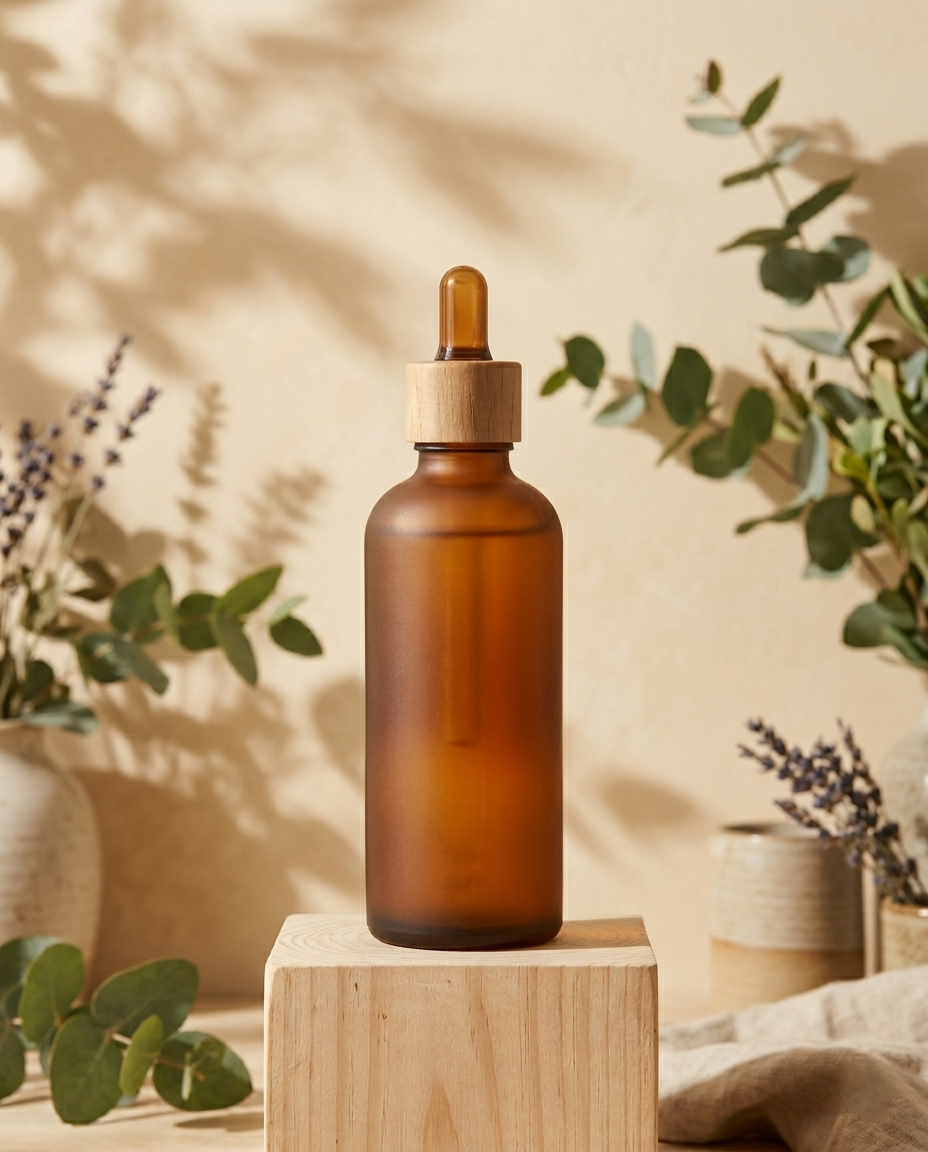
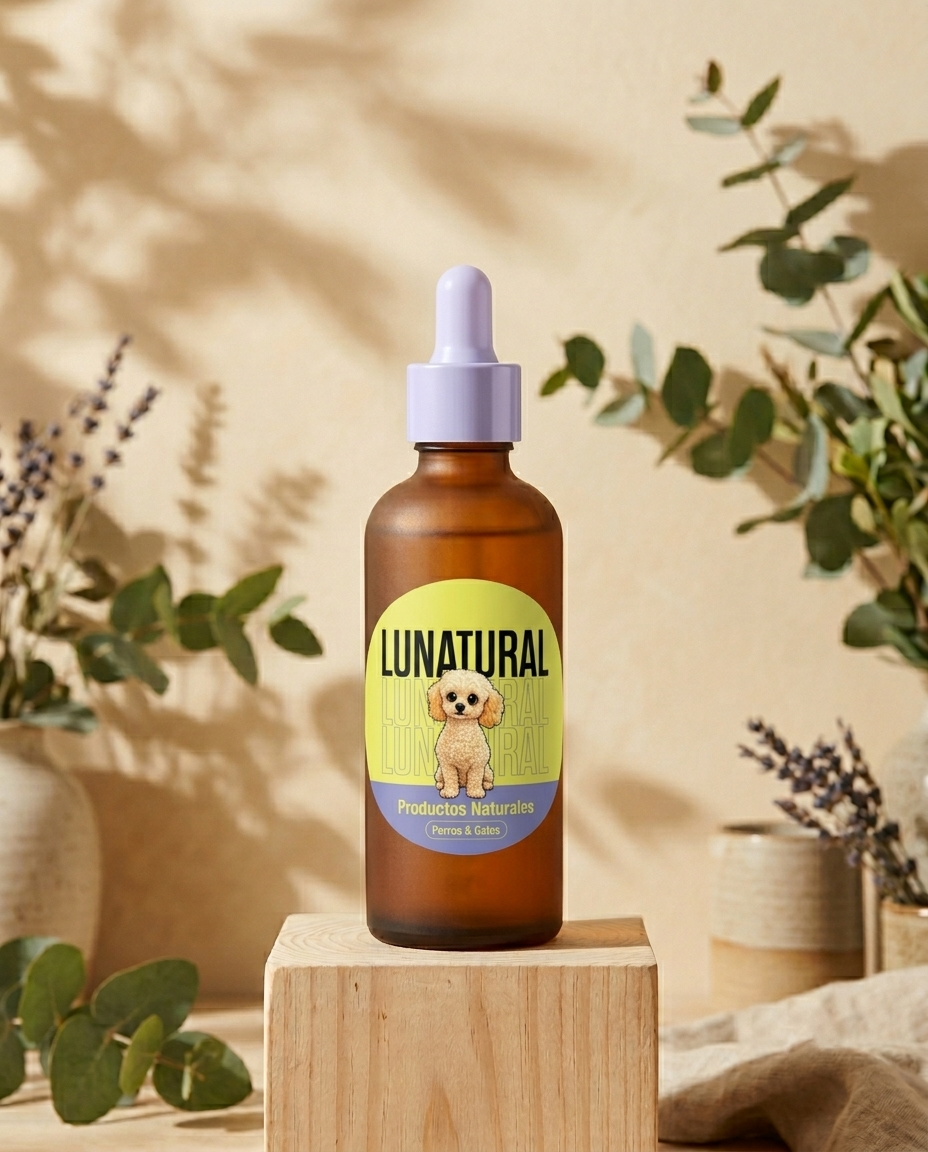
Add hamburger mobile menu and update Lunatural product images/descriptions

diff --git a/src/pages/PresetD.jsx b/src/pages/PresetD.jsx
@@ -1,4 +1,4 @@
-import React, { useEffect, useRef, useState } from 'react';
+import React, { useCallback, useEffect, useRef, useState } from 'react';
 import gsap from 'gsap';
 import { ScrollTrigger } from 'gsap/ScrollTrigger';
 import { motion } from 'framer-motion';
@@ -23,11 +23,27 @@ const smoothScroll = (e) => {
 // ── NAVBAR ────────────────────────────────────────────────────────────────────
 export function Navbar() {
   const [scrolled, setScrolled] = useState(false);
+  const [mobileOpen, setMobileOpen] = useState(false);
+  const [menuClosing, setMenuClosing] = useState(false);
+
+  const closeMenu = useCallback(() => {
+    setMenuClosing(true);
+    setTimeout(() => {
+      setMobileOpen(false);
+      setMenuClosing(false);
+    }, 300);
+  }, []);
+
   useEffect(() => {
     const h = () => setScrolled(window.scrollY > 80);
     window.addEventListener('scroll', h);
     return () => window.removeEventListener('scroll', h);
   }, []);
+
+  useEffect(() => {
+    document.body.style.overflow = mobileOpen ? 'hidden' : '';
+    return () => { document.body.style.overflow = ''; };
+  }, [mobileOpen]);
 
   const links = [
     { label: 'Inicio', href: '#inicio' },
@@ -36,29 +52,88 @@ export function Navbar() {
     { label: 'Lunatural', href: '#lunatural' },
   ];
 
+  const handleLinkClick = (e) => {
+    smoothScroll(e);
+    closeMenu();
+  };
+
+  const toggleMenu = useCallback(() => {
+    if (mobileOpen) {
+      closeMenu();
+    } else {
+      setMobileOpen(true);
+    }
+  }, [mobileOpen, closeMenu]);
+
   return (
-    <nav className={`navbar ${scrolled ? 'navbar-scrolled' : ''}`}>
-      <div className="navbar-brand">
-        <img src="/logo.png" alt="Logo MB.DÍAZ" className="navbar-logo" />
-        <div className="font-sora" style={{ fontWeight: 800, fontSize: '1.05rem', color: 'var(--fg-white)', letterSpacing: '-0.02em', display: 'flex', alignItems: 'center', gap: '2px' }}>
-          <span style={{ color: 'var(--color-primary)' }}>MBD</span>
-          <span style={{ color: 'rgba(255,255,255,0.4)' }}>.</span>
-          <span>Nutrición Animal</span>
+    <>
+      <nav className={`navbar ${scrolled ? 'navbar-scrolled' : ''}`}>
+        <div className="navbar-brand">
+          <img src="/logo.png" alt="Logo MB.DÍAZ" className="navbar-logo" />
+          <div className="font-sora" style={{ fontWeight: 800, fontSize: '1.05rem', color: 'var(--fg-white)', letterSpacing: '-0.02em', display: 'flex', alignItems: 'center', gap: '2px' }}>
+            <span style={{ color: 'var(--color-primary)' }}>MBD</span>
+            <span className="text-white/40">.</span>
+            <span>Nutrición Animal</span>
+          </div>
         </div>
-      </div>
 
-      <div className="navbar-links">
-        {links.map(l => (
-          <a key={l.href} href={l.href} onClick={smoothScroll} className="nav-link">
-            {l.label}
-          </a>
-        ))}
-      </div>
+        <div className="navbar-links hide-mobile">
+          {links.map(l => (
+            <a key={l.href} href={l.href} onClick={smoothScroll} className="nav-link">
+              {l.label}
+            </a>
+          ))}
+        </div>
 
-      <a href="https://api.whatsapp.com/send/?phone=[phone redacted]&text&type=phone_number&app_absent=0" target="_blank" rel="noopener noreferrer" className="navbar-cta nav-cta-btn">
-        Reservar consulta
-      </a>
-    </nav>
+        <a href="https://api.whatsapp.com/send/?phone=[phone redacted]&text&type=phone_number&app_absent=0" target="_blank" rel="noopener noreferrer" className="navbar-cta-btn nav-cta-btn hide-mobile">
+          Reservar consulta
+        </a>
+
+        <button
+          onClick={toggleMenu}
+          className="navbar-hamburger"
+          aria-label={mobileOpen ? 'Cerrar menú de navegación' : 'Abrir menú de navegación'}
+          aria-expanded={mobileOpen}
+          aria-controls="mobile-menu"
+        >
+          <div className="relative w-[18px] h-[18px]">
+            <span className={`absolute left-0 top-0 w-full h-[2px] bg-white rounded-full transition-all duration-300 ${mobileOpen ? 'top-1/2 -translate-y-1/2 rotate-45' : ''}`} />
+            <span className={`absolute left-0 top-1/2 -translate-y-1/2 w-full h-[2px] bg-white rounded-full transition-all duration-300 ${mobileOpen ? 'opacity-0' : ''}`} />
+            <span className={`absolute left-0 bottom-0 w-full h-[2px] bg-white rounded-full transition-all duration-300 ${mobileOpen ? 'bottom-1/2 translate-y-1/2 -rotate-45' : ''}`} />
+          </div>
+        </button>
+      </nav>
+
+      {mobileOpen && (
+        <div id="mobile-menu" className="mobile-menu-overlay" role="dialog" aria-modal="true" aria-label="Menú de navegación">
+          <div className="mobile-menu-backdrop" onClick={closeMenu} />
+          <div className={`mobile-menu-panel ${menuClosing ? 'closing' : 'open'}`}>
+            <div className="flex flex-col gap-1">
+              {links.map(l => (
+                <a
+                  key={l.href}
+                  href={l.href}
+                  onClick={handleLinkClick}
+                  className="mobile-menu-link"
+                >
+                  {l.label}
+                </a>
+              ))}
+            </div>
+            <div className="mobile-menu-divider" />
+            <a
+              href="https://api.whatsapp.com/send/?phone=[phone redacted]&text&type=phone_number&app_absent=0"
+              target="_blank"
+              rel="noopener noreferrer"
+              onClick={closeMenu}
+              className="nav-cta-btn mobile-menu-cta"
+            >
+              Reservar consulta
+            </a>
+          </div>
+        </div>
+      )}
+    </>
   );
 }
 
@@ -390,15 +465,15 @@ export function LunaturalDetail() {
       id: 'pipeta',
       name: 'Pipeta Natural',
       badge: 'Antiparasitario',
-      img: '/images/Pipeta.bg.png',
+      img: '/images/Pipeta Natural.png',
       tagline: 'Protección natural de amplio espectro.',
-      benefits: ['Repelente natural de pulgas y garrapatas', 'Aceites esenciales de citronela y neem', 'Apto para cachorros +4 meses'],
+      benefits: ['Repelente natural de pulgas y garrapatas', 'Aceites esenciales de citronela y neem', 'Apta para cachorros mayores de 6 meses'],
     },
     {
       id: 'balsamo',
       name: 'Bálsamo Hidratante',
       badge: 'Cuidado de Piel',
-      img: '/images/Balsamo.png',
+      img: '/images/Unguento.png',
       tagline: 'Nutrición profunda para piel y almohadillas.',
       benefits: ['Hidratación con manteca de karité y caléndula', 'Hidratación para trufa, almohadillas y callos', 'Sin parabenos ni fragancias sintéticas'],
     },
@@ -406,9 +481,9 @@ export function LunaturalDetail() {
       id: 'crema',
       name: 'Ungüento Cicatrizante',
       badge: 'Cicatrizante',
-      img: '/images/Unguento.png',
-      tagline: 'Alivio natural para irritaciones y alergias.',
-      benefits: ['Fórmula con avena coloidal y aloe vera', 'Calma dermatitis y picaduras', 'Aplicación diaria no grasosa'],
+      img: '/images/Balsamo.png',
+      tagline: 'Protege la herida y acelera cicatrización.',
+      benefits: ['Fórmula con aceites vegetales, aceites esenciales y cera de abejas', 'Protección, nutrición y elasticidad', 'Aplicación diaria no grasosa'],
     },
     {
       id: 'personalizado',

diff --git a/src/index.css b/src/index.css
@@ -552,6 +552,11 @@ body {
   color: #fff;
 }
 
+.navbar-cta-btn {
+  display: flex;
+  align-items: center;
+}
+
 .nav-cta-btn {
   background: var(--color-primary);
   color: var(--fg-white);
@@ -568,6 +573,105 @@ body {
 .nav-cta-btn:hover {
   transform: scale(1.04);
   box-shadow: 0 6px 28px rgba(196,108,184,0.5);
+}
+
+/* ── Hamburger button ─────────────────────────────── */
+.navbar-hamburger {
+  display: none;
+  align-items: center;
+  justify-content: center;
+  width: 44px;
+  height: 44px;
+  border-radius: 50%;
+  background: rgba(255,255,255,0.05);
+  border: 1px solid rgba(255,255,255,0.1);
+  color: #fff;
+  cursor: pointer;
+  transition: background 0.2s var(--ease-out-quart);
+  flex-shrink: 0;
+}
+.navbar-hamburger:hover {
+  background: rgba(255,255,255,0.1);
+}
+.navbar-hamburger:focus-visible {
+  outline: none;
+  box-shadow: 0 0 0 2px var(--color-primary);
+}
+
+@media (max-width: 860px) {
+  .navbar-hamburger { display: flex; }
+}
+
+/* ── Mobile menu overlay ─────────────────────────── */
+@keyframes mobile-menu-in {
+  from { opacity: 0; transform: translateY(-8px); }
+  to   { opacity: 1; transform: translateY(0); }
+}
+@keyframes mobile-menu-out {
+  from { opacity: 1; transform: translateY(0); }
+  to   { opacity: 0; transform: translateY(-8px); }
+}
+
+.mobile-menu-overlay {
+  position: fixed;
+  inset: 0;
+  z-index: 999;
+  display: flex;
+  flex-direction: column;
+  align-items: center;
+}
+.mobile-menu-backdrop {
+  position: absolute;
+  inset: 0;
+  background: rgba(0,0,0,0.6);
+  backdrop-filter: blur(8px);
+  -webkit-backdrop-filter: blur(8px);
+}
+.mobile-menu-panel {
+  position: relative;
+  margin-top: calc(1.25rem + 4.2rem);
+  width: calc(100% - 3rem);
+  max-width: 1200px;
+  background: rgba(14,12,35,0.96);
+  backdrop-filter: blur(24px);
+  -webkit-backdrop-filter: blur(24px);
+  border: 1px solid rgba(166,117,163,0.2);
+  border-radius: 2rem;
+  padding: 1.25rem;
+  box-shadow: 0 25px 50px rgba(0,0,0,0.5);
+}
+.mobile-menu-panel.open {
+  animation: mobile-menu-in 0.4s cubic-bezier(0.16, 1, 0.3, 1) forwards;
+}
+.mobile-menu-panel.closing {
+  animation: mobile-menu-out 0.3s cubic-bezier(0.16, 1, 0.3, 1) forwards;
+}
+
+.mobile-menu-link {
+  display: block;
+  font-family: 'Sora', sans-serif;
+  font-size: 1rem;
+  font-weight: 500;
+  color: rgba(255,255,255,0.65);
+  text-decoration: none;
+  padding: 0.85rem 1rem;
+  border-radius: 1rem;
+  transition: all 0.2s var(--ease-out-quart);
+}
+.mobile-menu-link:hover {
+  color: #fff;
+  background: rgba(255,255,255,0.05);
+}
+
+.mobile-menu-divider {
+  height: 1px;
+  background: rgba(255,255,255,0.08);
+  margin: 1rem 0.5rem 0.5rem;
+}
+
+.mobile-menu-cta {
+  display: block;
+  text-align: center;
 }
 
 /* ============================================================

diff --git a/src/pages/LunaturalProducts.jsx b/src/pages/LunaturalProducts.jsx
@@ -6,18 +6,18 @@ import { ArrowLeft, Sparkles, FlaskConical } from 'lucide-react';
 const products = [
   {
     id: 'pipeta', name: 'Pipeta Natural', badge: 'Antiparasitario',
-    img: '/images/Pipeta.bg.png', tagline: 'Protección natural de amplio espectro.',
-    benefits: ['Repelente natural de pulgas y garrapatas', 'Aceites esenciales de citronela y neem', 'Apto para cachorros +4 meses'],
+    img: '/images/Pipeta Natural.png', tagline: 'Protección natural de amplio espectro.',
+    benefits: ['Repelente natural de pulgas y garrapatas', 'Aceites esenciales de citronela y neem', 'Apta para cachorros mayores de 6 meses'],
   },
   {
     id: 'balsamo', name: 'Bálsamo Hidratante', badge: 'Cuidado de Piel',
-    img: '/images/Balsamo.png', tagline: 'Nutrición profunda para piel y almohadillas.',
+    img: '/images/Unguento.png', tagline: 'Nutrición profunda para piel y almohadillas.',
     benefits: ['Hidratación con manteca de karité y caléndula', 'Hidratación para trufa, almohadillas y callos', 'Sin parabenos ni fragancias sintéticas'],
   },
   {
     id: 'crema', name: 'Ungüento Cicatrizante', badge: 'Cicatrizante',
-    img: '/images/Unguento.png', tagline: 'Alivio natural para irritaciones y alergias.',
-    benefits: ['Fórmula con avena coloidal y aloe vera', 'Calma dermatitis y picaduras', 'Aplicación diaria no grasosa'],
+    img: '/images/Balsamo.png', tagline: 'Protege la herida y acelera cicatrización.',
+    benefits: ['Fórmula con aceites vegetales, aceites esenciales y cera de abejas', 'Protección, nutrición y elasticidad', 'Aplicación diaria no grasosa'],
   },
   {
     id: 'personalizado', name: 'Tu Preparado Natural', price: 'A medida', badge: 'Personalizado',